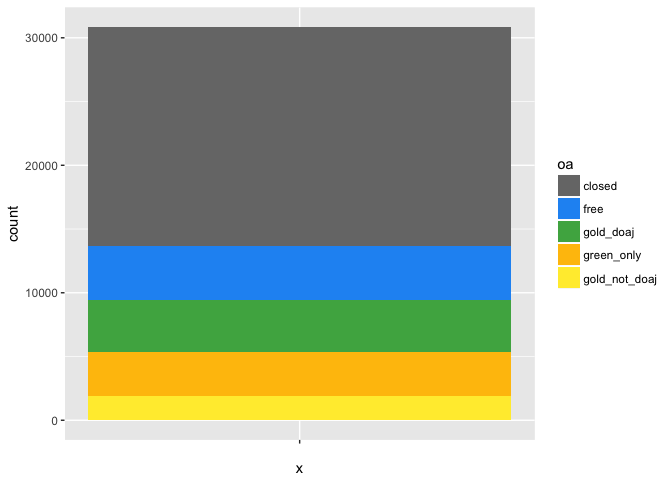
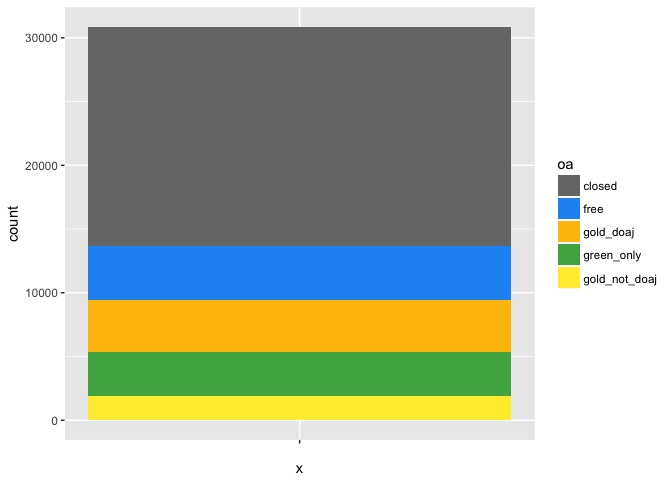
more to accessed section

Changed region(s): [[0.125, 0.625, 0.7812, 0.8438], [0.8125, 0.4375, 0.875, 0.5625]]

diff --git a/oa_analysis.md b/oa_analysis.md
@@ -14,15 +14,6 @@ To do next - make table for amount of oa in last five years, more sentences desc
 
 -   say "under construction" for publisher, repos
 
--   describe unpaywall
--   describe userbase of unpaywall
--   the number of calls to the api
--   percent of dois with more than one accesses
--   number of unique IP addresses
--   DOI based analysis
--   we'll include one or two of these graphs, not sure which yet
--   for the most viewed articles, the OA story is better, and getting even better
-
 decide what to do about - 2016 and 2017 are the most accessed years, but leaving them out of analysis
 
 if time - fix publisher section - repository section needs help
@@ -191,6 +182,10 @@ articles_all %>% filter(is_modern) %>% filter(oa != "closed", oa != "free") %>% 
 \# What are OA percents by most accessed
 ----------------------------------------
 
+DOIs accessed through Unpaywall on April 20, 2017. 50k accesses, 30k unique DOIs, 9k unique IP addresses. (we will fix the plots so the two types of gold are beside each other) This analysis is using the 30k DOIs.
+
+To write: - describe unpaywall - describe userbase of unpaywall - the number of calls to the api - percent of dois with more than one accesses - number of unique IP addresses - DOI based analysis - we'll include one or two of these graphs, not sure which yet - for the most viewed articles, the OA story is better, and getting even better
+
 ``` r
 # articles accessed
 articles_accessed_raw <- read.csv("export_study_dois_unpaywall_accesses_20170506.csv")
@@ -204,6 +199,7 @@ articles_accessed$oa[articles_accessed$oa_color=="blue" & articles_accessed$is_o
 articles_accessed$oa[articles_accessed$oa_color=="blue" & !articles_accessed$is_open_license] = "free"
 
 # sort the factor for easier plotting
+oa_color_map_accessed = scale_fill_manual(values=c("#777777", "#2196F3", "#FFC107", "#4CAF50", "#FFEB3B"))
 articles_accessed = mutate(articles_accessed, oa=fct_infreq(oa))
 
 # how much oa
@@ -220,7 +216,7 @@ articles_accessed %>% count(oa) %>% mutate(proportion=n/sum(n))
     ## 5 gold_not_doaj  1905 0.06175241
 
 ``` r
-articles_accessed %>% ggplot(aes(x="", fill=oa)) + geom_bar() + oa_color_map
+articles_accessed %>% ggplot(aes(x="", fill=oa)) + geom_bar() + oa_color_map_accessed
 ```
 
 ![](oa_analysis_files/figure-markdown_github/unnamed-chunk-11-1.png)
@@ -239,7 +235,7 @@ articles_accessed %>% count(is_modern) %>% mutate(proportion = n / sum(n))
 
 ``` r
 articles_accessed %>% filter(is_modern) %>%
-    ggplot(aes(x=year, fill=oa)) + geom_bar(width=1) + oa_color_map
+    ggplot(aes(x=year, fill=oa)) + geom_bar(width=1) + oa_color_map_accessed
 ```
 
 ![](oa_analysis_files/figure-markdown_github/unnamed-chunk-11-2.png)
@@ -249,7 +245,7 @@ oa_freq_by_year = articles_accessed %>% filter(is_modern) %>% count(year, oa) %>
   mutate(perc = n / sum(n)) %>%  
   ungroup()  
 
-oa_freq_by_year %>% ggplot(aes(x=year, y=perc, fill=oa)) + geom_area() + oa_color_map
+oa_freq_by_year %>% ggplot(aes(x=year, y=perc, fill=oa)) + geom_area() + oa_color_map_accessed
 ```
 
 ![](oa_analysis_files/figure-markdown_github/unnamed-chunk-11-3.png)
